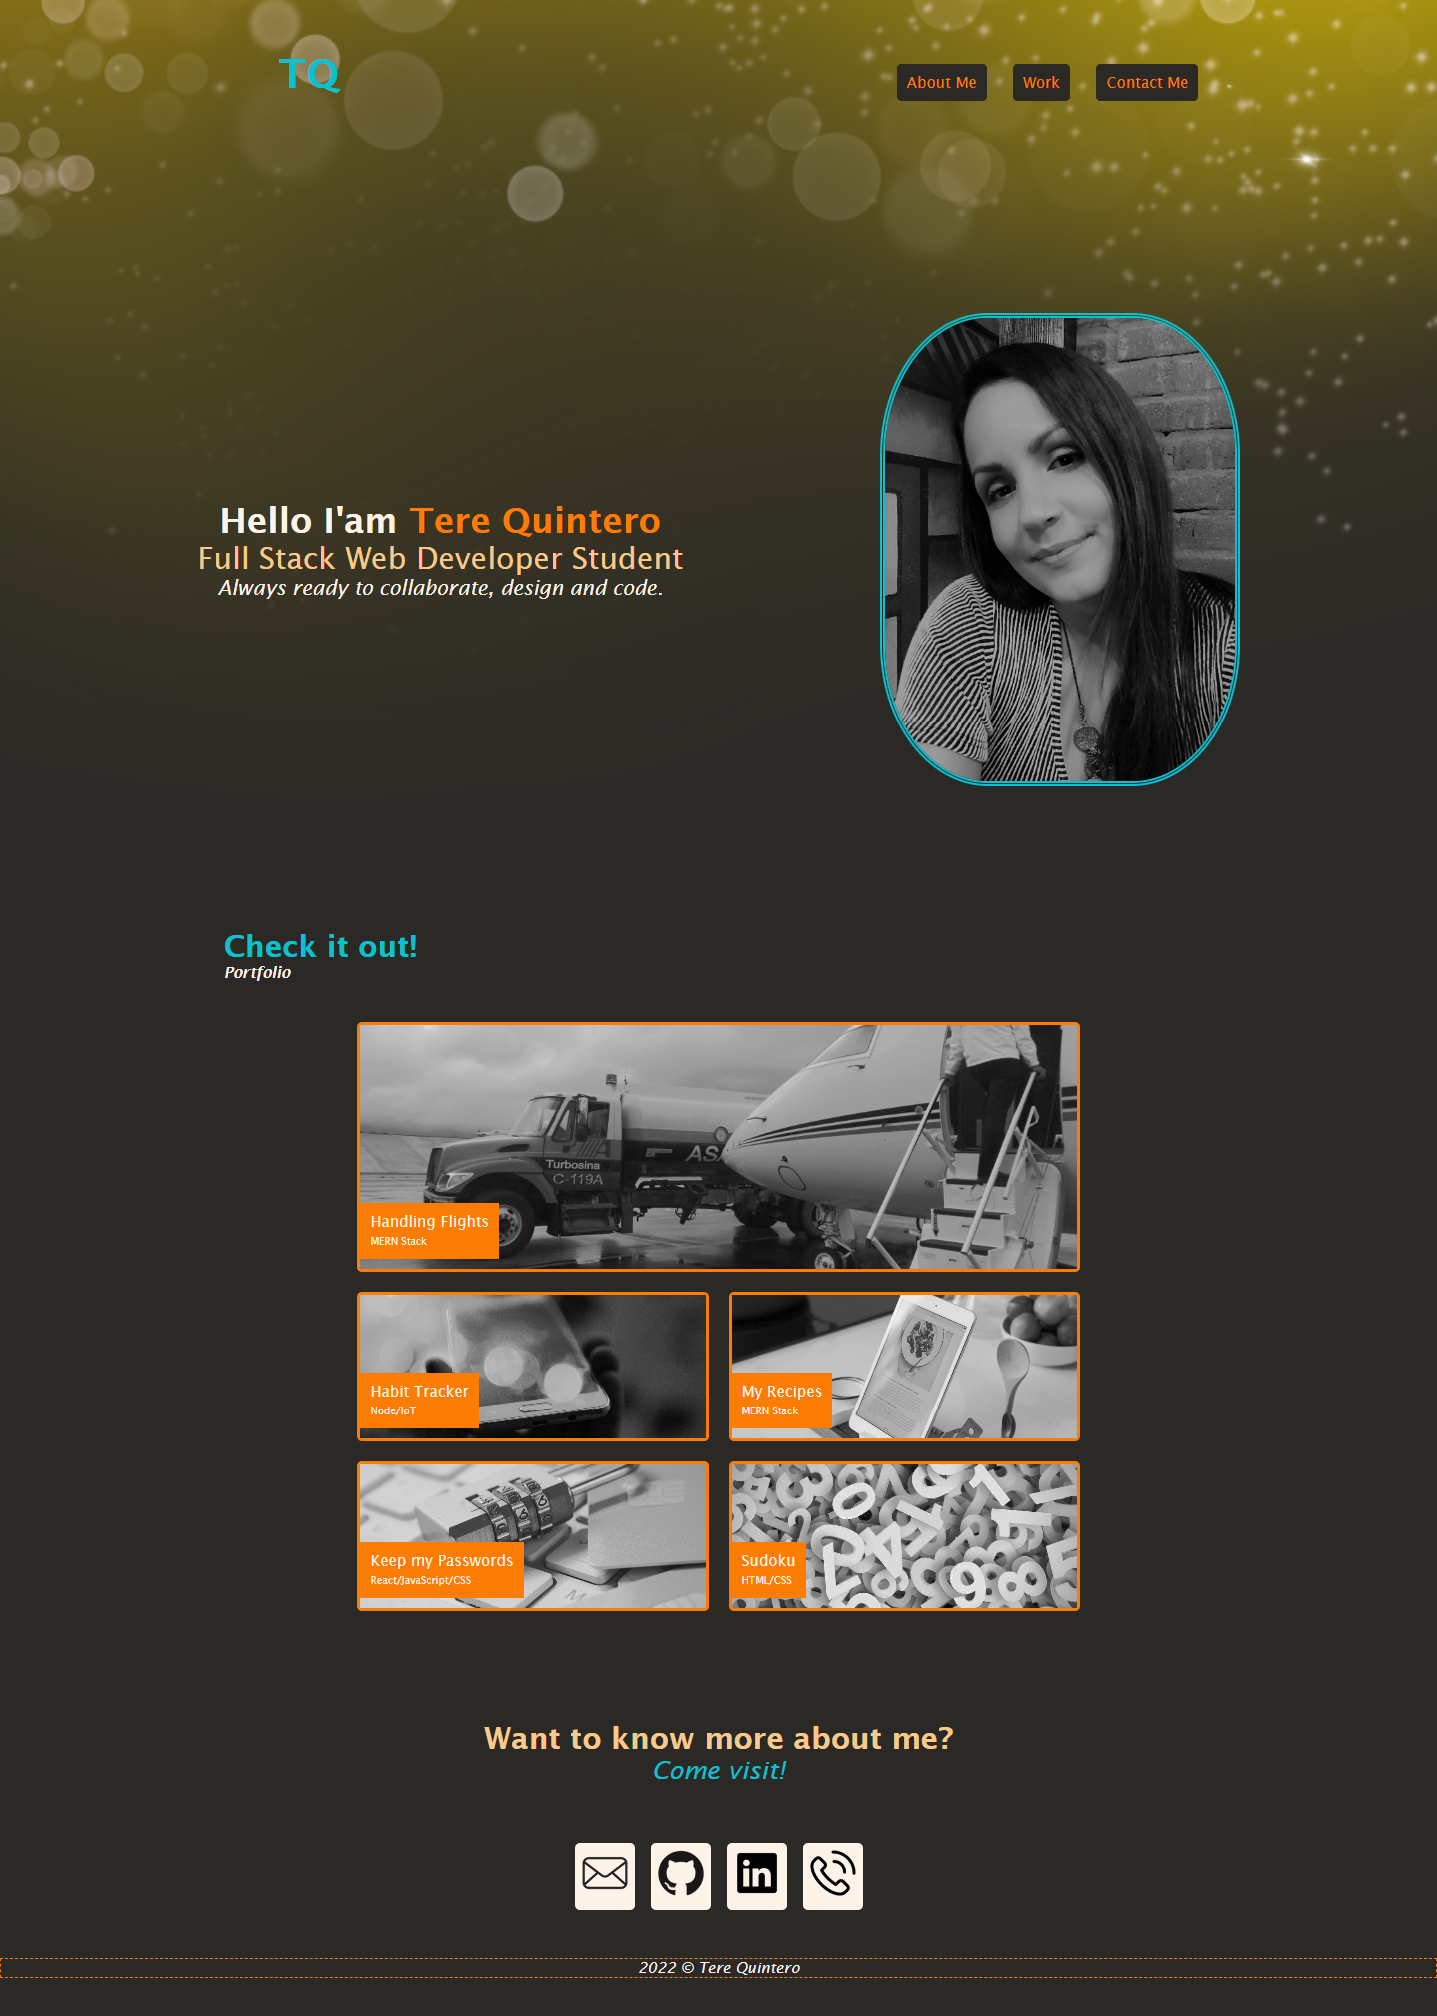
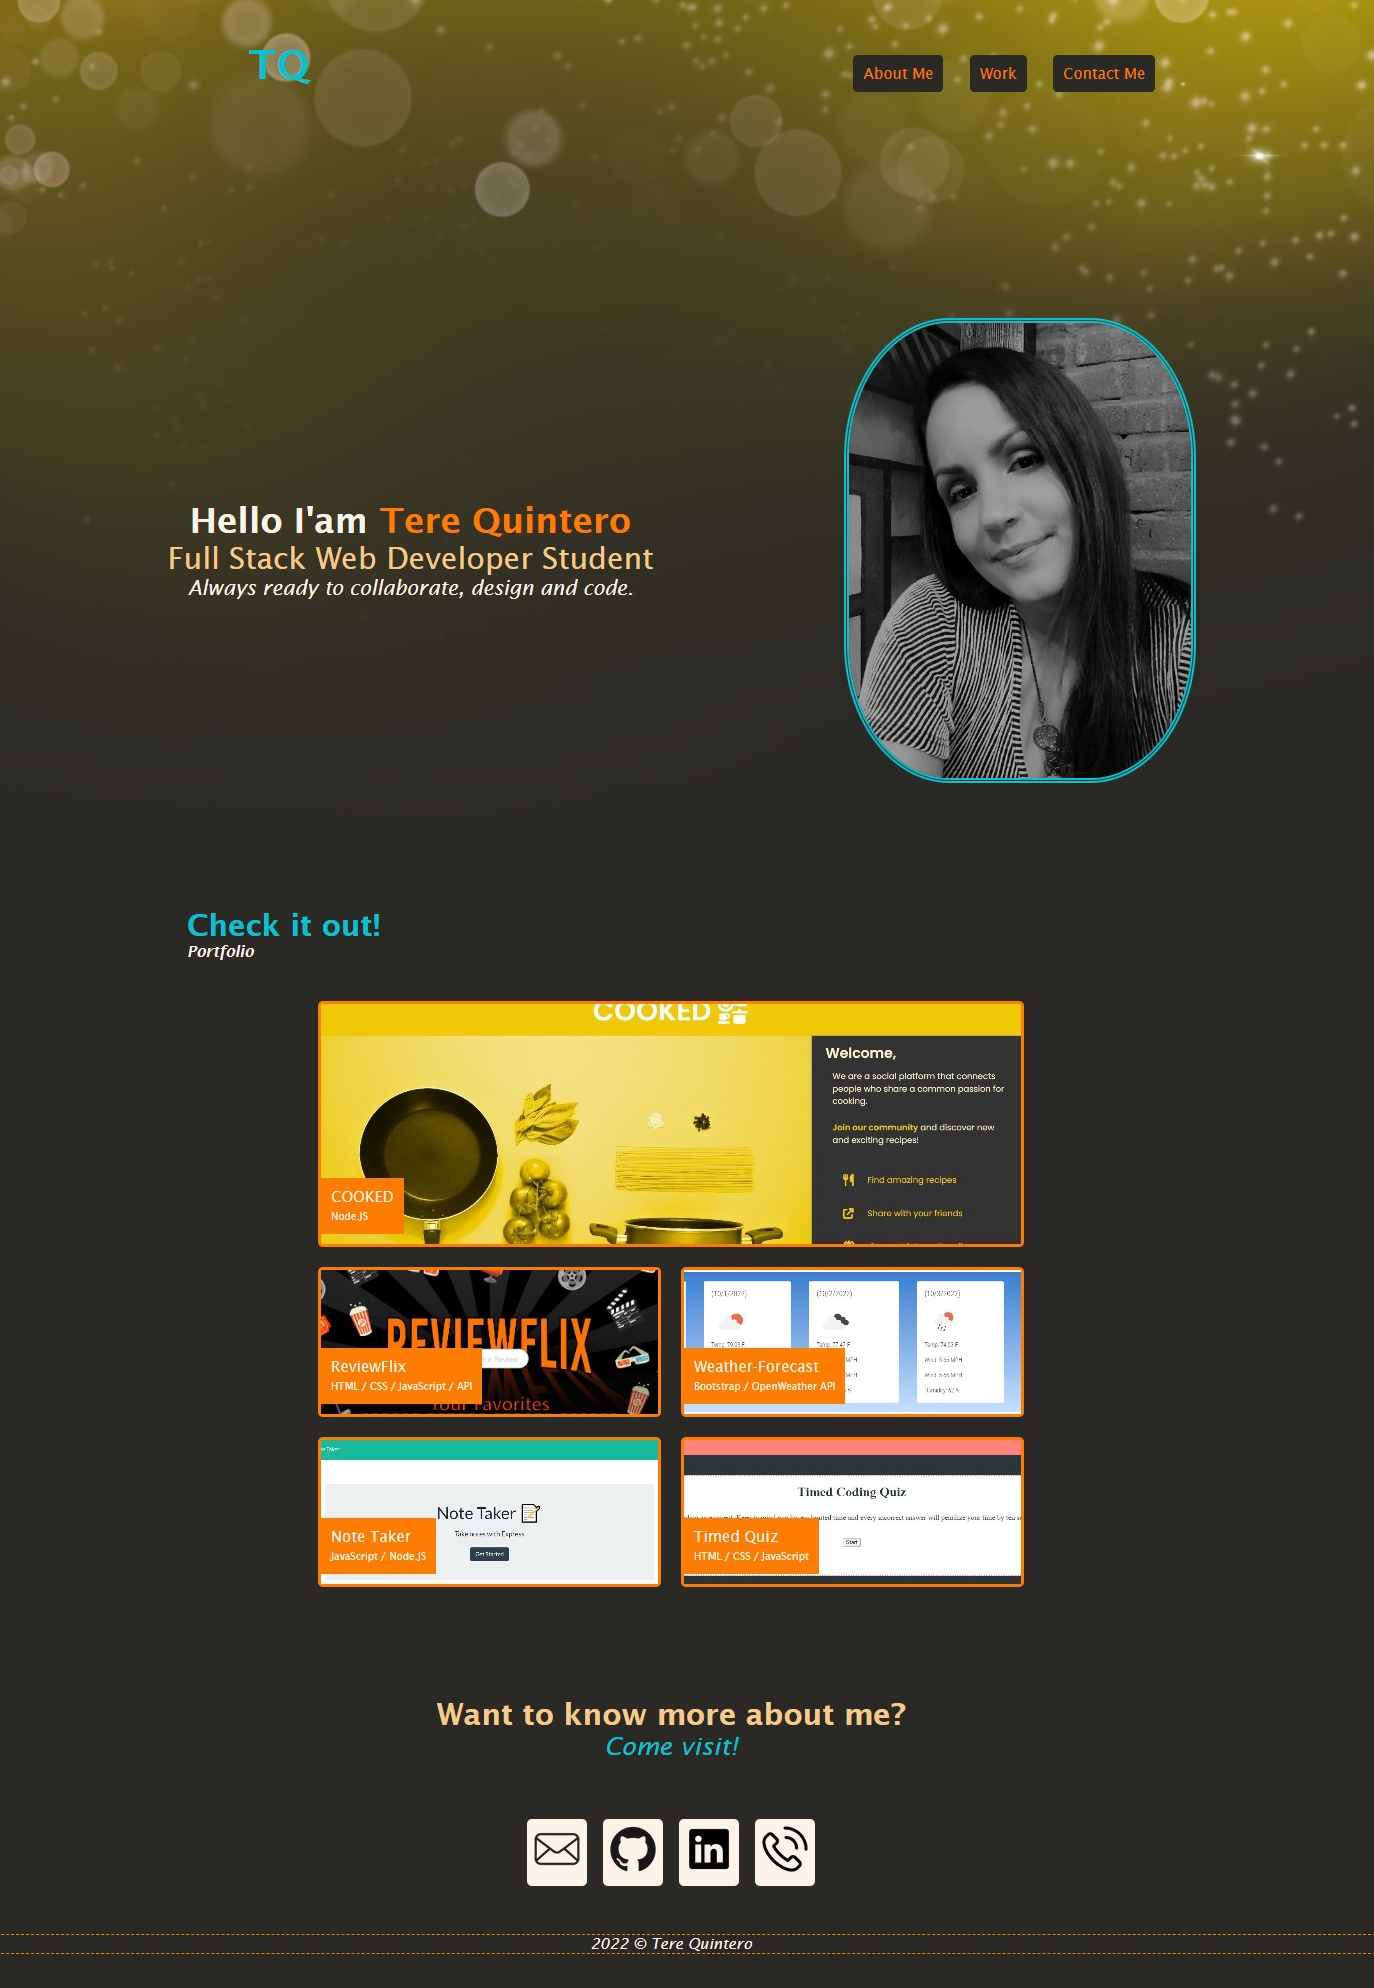
Links to new apps added

diff --git a/index.html b/index.html
@@ -42,26 +42,26 @@
                 <h3><span id="clickIt">Check it out!</span><br>Portfolio</h3>
                 <div id="appsContainer">
                     <!--main app-->
-                    <div id="handlingFlights">                    
-                        <a href="#"><p class="boxTitle">Handling Flights<br><span class="tool">MERN Stack</span></p>
-                        <img src="assets/images/flight.jpeg" alt="parked airplane" /></a>
+                    <div id="mainImage">                    
+                        <a href="https://cooked.herokuapp.com/" target="_blank"><p class="boxTitle">COOKED<br><span class="tool">Node.JS</span></p>
+                        <img src="assets/images/cooked.jpg" alt="spaguetti ingredients" /></a>
                     </div>
                     <!--the rest 4 apps-->                    
                     <div class="apps">
-                        <a href="#"><p class="boxTitle">Habit Tracker<br><span class="tool">Node/IoT</span></p>
-                        <img src="assets/images/habitTracker.jpeg" alt="cellphone with color lights" /></a>
+                        <a href="https://gavriellegarcia.github.io/First-Project-TDM/" target="_blank"><p class="boxTitle">ReviewFlix<br><span class="tool">HTML / CSS / JavaScript / API</span></p>
+                        <img src="assets/images/reviewFlix.jpg" alt="reviewFlix logo" /></a>
                     </div>
                     <div class="apps">
-                        <a href="#"><p class="boxTitle">My Recipes<br><span class="tool">MERN Stack</span></p>
-                        <img src="assets/images/recipe2.jpeg" alt="tablet on a kitchen counter" /></a>
+                        <a href="https://qgtere.github.io/Weather-Forecast/" target="_blank"><p class="boxTitle">Weather-Forecast<br><span class="tool">Bootstrap / OpenWeather API</span></p>
+                        <img src="assets/images/weather.jpg" alt="weather forecast" /></a>
                     </div>
                     <div class="apps">
-                        <a href="#"><p class="boxTitle">Keep my Passwords<br><span class="tool">React/JavaScript/CSS</span></p>
-                        <img src="assets/images/password.jpeg" alt="padlock over a keyboard" /></a>
+                        <a href="https://sleepy-badlands-24266.herokuapp.com/" target="_blank"><p class="boxTitle">Note Taker<br><span class="tool">JavaScript / Node.JS</span></p>
+                        <img src="assets/images/noteTaker.jpg" alt="paper and pencil" /></a>
                     </div>
                     <div class="apps">
-                        <a href="#"><p class="boxTitle">Sudoku<br><span class="tool">HTML/CSS</span></p>
-                        <img src="assets/images/sudoku2.jpeg" alt="random numbers" /></a>
+                        <a href="https://qgtere.github.io/Challenge4-TimedQuiz/" target="_blank"><p class="boxTitle">Timed Quiz<br><span class="tool">HTML / CSS / JavaScript</span></p>
+                        <img src="assets/images/timedQuiz.jpg" alt="random numbers" /></a>
                     </div>
                     
                 </div>

diff --git a/assets/css/style.css b/assets/css/style.css
@@ -131,7 +131,7 @@ footer {
     padding: 0 20% 0 20%;
 }
 
-#appsContainer #handlingFlights {
+#appsContainer #mainImage {
     position: relative;
     border: solid 3px var(--fluor);
     border-radius: 5px;
@@ -140,7 +140,7 @@ footer {
     width: 100%;
 }
 
-#handlingFlights img {
+#mainImage img {
     object-fit: cover;
     width: 100%;
     height: 100%;  
